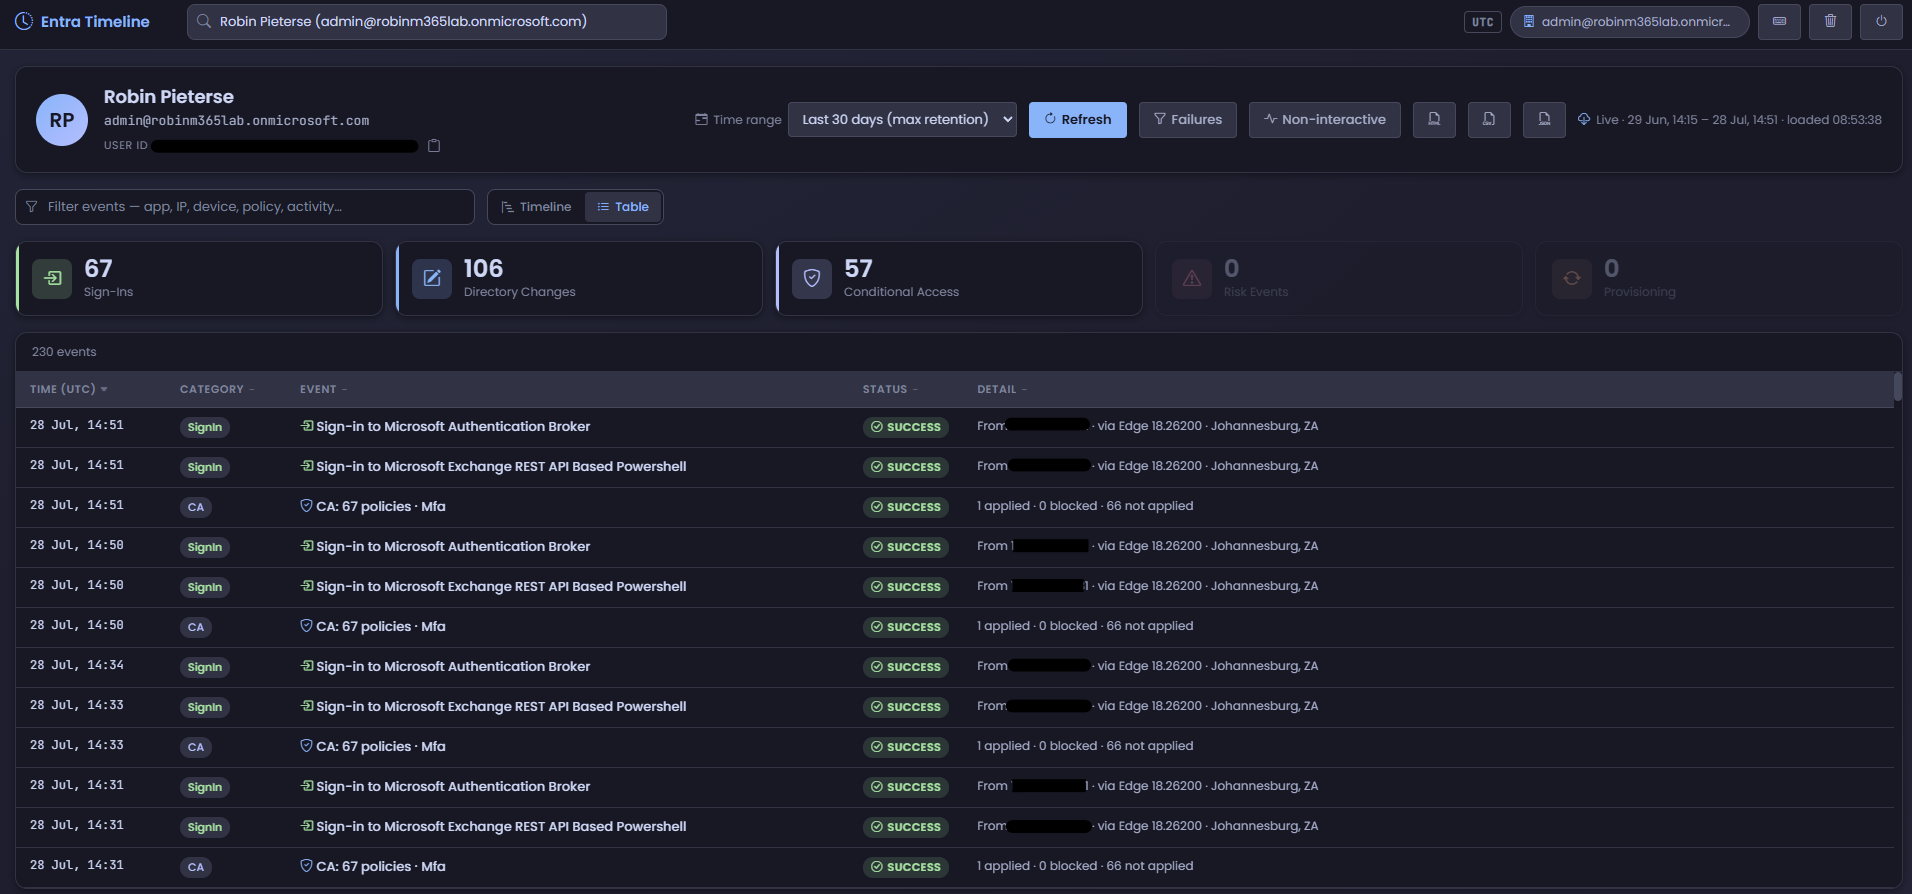
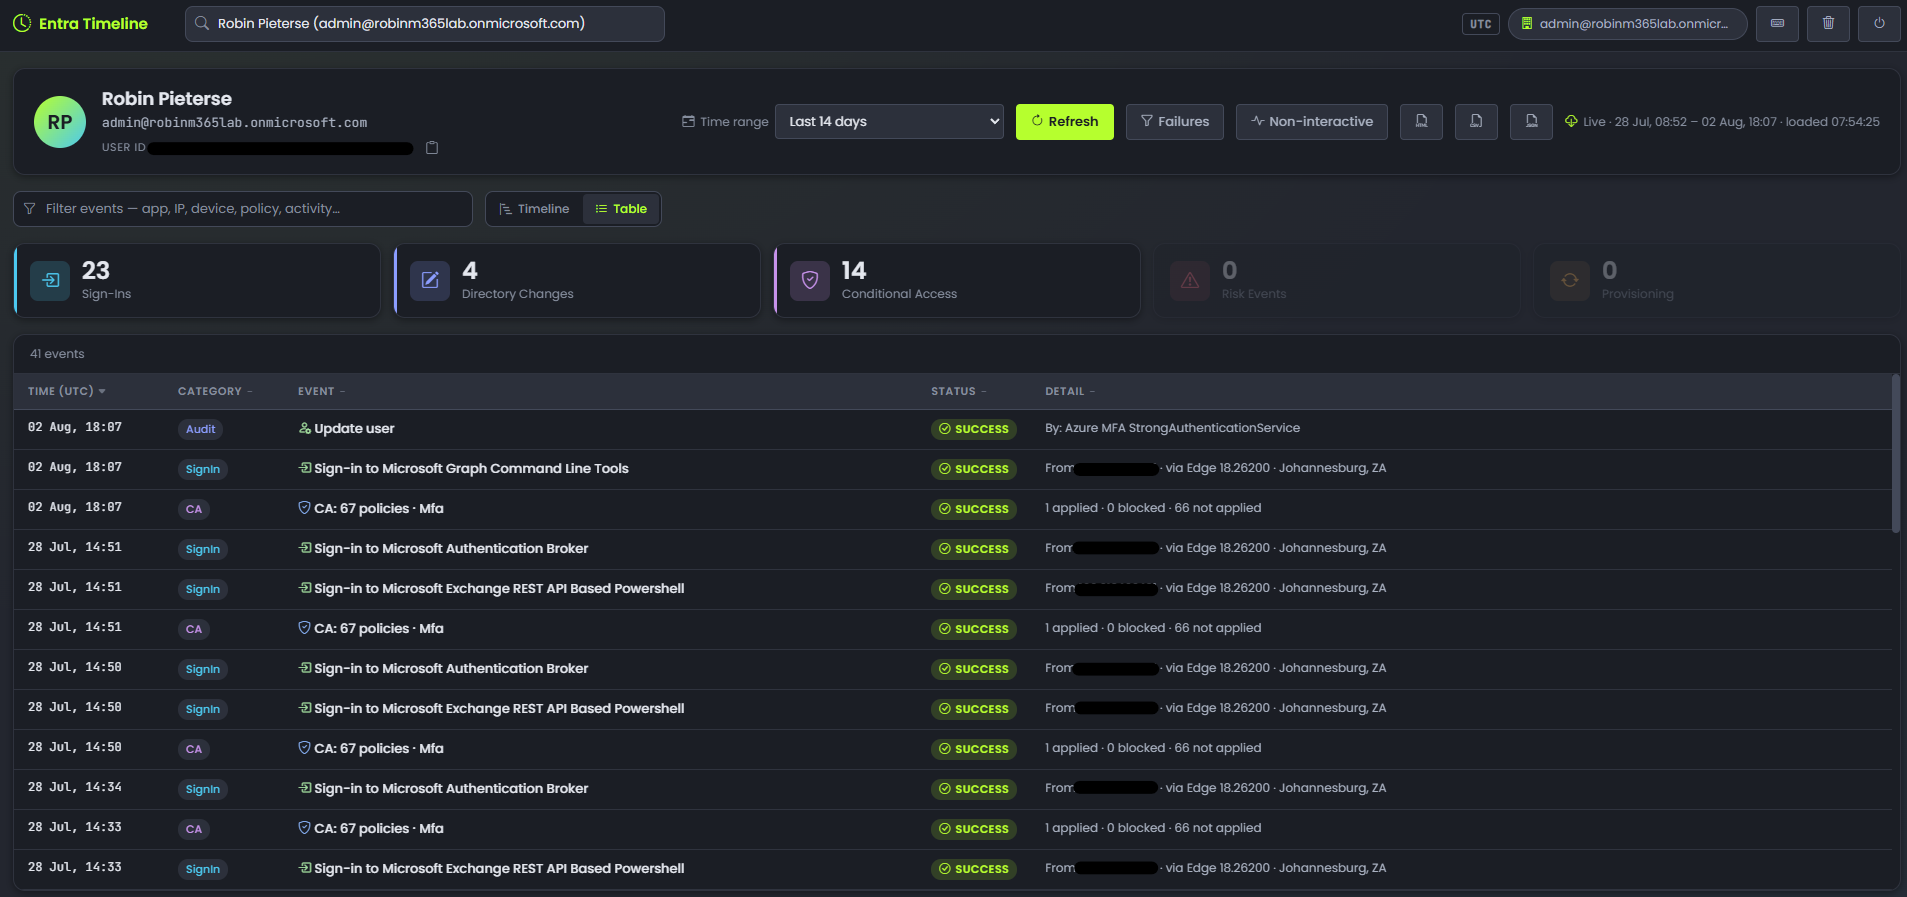
Refresh dark theme palette and status colors
Reworks the CSS design tokens to a charcoal + lime palette, including updated surface/text/accent/status/category colors and new RGB channel variables for consistent translucent effects. Replaces many hardcoded RGBA values with token-based references across timeline, badges, banners, minimap, table selection, and toggle states to improve maintainability and visual consistency. Also updates the timeline and detail panel screenshots in docs to match the new styling.

diff --git a/Web/css/styles.css b/Web/css/styles.css
@@ -1,29 +1,45 @@
 /* ── Design tokens ─────────────────────────────────────────────────────── */
 :root {
-  --bg-base:      #1e1e2e;
-  --bg-surface:   #181825;
-  --bg-card:      #313244;
-  --bg-hover:     #3b3d54;
-  --border:       #313244;
-  --border-soft:  #45475a;
-  --text-primary: #cdd6f4;
-  /* Catppuccin overlay1. The previous overlay0 (#6c7086) measured 3.56:1 against
-     --bg-surface — below the 4.5:1 WCAG AA minimum — and it carries stat labels,
-     detail row labels, the time axis and the empty state. This is 4.72:1. */
-  --text-muted:   #7f849c;
-  --text-sub:     #a6adc8;
-  --accent:       #89b4fa;
-  --success:      #a6e3a1;
-  --error:        #f38ba8;
-  --warning:      #f9e2af;
-  --info:         #89dceb;
+  /* Charcoal surfaces stepped around the #23262f base, lime accent. */
+  --bg-base:      #23262f;
+  --bg-surface:   #1b1e25;
+  --bg-card:      #2c303b;
+  --bg-hover:     #363b48;
+  --border:       #2f333e;
+  --border-soft:  #434959;
+  --text-primary: #e4e7ee;
+  /* Carries stat labels, detail row labels, the time axis and the empty state,
+     so it must clear the 4.5:1 WCAG AA minimum against --bg-surface. This is
+     5.06:1. */
+  --text-muted:   #868e9e;
+  --text-sub:     #a9b1c1;
+  --accent:       #b6ff2e;
+  /* Lime doubles as the success signal — the palette has one "good" colour and
+     spending a third green on it would only blur against the accent. Timeline
+     status is shape-encoded as well, so nothing rests on hue alone. */
+  --success:      #b6ff2e;
+  --error:        #ff6b81;
+  --warning:      #ffc857;
+  --info:         #4cc9f0;
 
-  /* category colors */
-  --cat-SignIn:       #a6e3a1;
-  --cat-Audit:        #89b4fa;
-  --cat-CA:           #b4befe;
-  --cat-Risk:         #f38ba8;
-  --cat-Provisioning: #fab387;
+  /* category colors — hues kept clear of the lime accent so a category never
+     reads as "selected" or "succeeded" */
+  --cat-SignIn:       #4cc9f0;
+  --cat-Audit:        #8b9dff;
+  --cat-CA:           #c792ea;
+  --cat-Risk:         #ff6b81;
+  --cat-Provisioning: #ffb454;
+
+  /* Channel triplets for the translucent fills, rings and washes below. */
+  --accent-rgb:  182,255,46;
+  --success-rgb: 182,255,46;
+  --error-rgb:   255,107,129;
+  --warning-rgb: 255,200,87;
+  --text-rgb:    228,231,238;
+  --muted-rgb:   134,142,158;
+  --card-rgb:    44,48,59;
+  --soft-rgb:    67,73,89;
+  --neutral-ring: #545b6d;
 
   --shadow:       0 2px 8px rgba(0,0,0,.4);
   --shadow-lg:    0 8px 24px rgba(0,0,0,.5);
@@ -53,8 +69,8 @@ html, body {
   /* Two faint wash gradients over the flat base give the surface depth without
      touching any foreground contrast — cards and text still sit on solid --bg-base. */
   background:
-    radial-gradient(120% 140% at 12% -12%, rgba(137,180,250,.05), transparent 60%),
-    radial-gradient(140% 120% at 105% 112%, rgba(180,190,254,.045), transparent 55%),
+    radial-gradient(120% 140% at 12% -12%, rgba(var(--accent-rgb),.05), transparent 60%),
+    radial-gradient(140% 120% at 105% 112%, rgba(76,201,240,.05), transparent 55%),
     var(--bg-base);
   color: var(--text-primary);
   overflow: hidden;
@@ -276,9 +292,9 @@ body { display: flex; flex-direction: column; }
   inset: 0;
   background: linear-gradient(90deg,
     transparent 0%,
-    rgba(205,214,244,.05) 40%,
-    rgba(205,214,244,.13) 50%,
-    rgba(205,214,244,.05) 60%,
+    rgba(var(--text-rgb),.05) 40%,
+    rgba(var(--text-rgb),.13) 50%,
+    rgba(var(--text-rgb),.05) 60%,
     transparent 100%);
   animation: shimmerSweep 1.3s ease-in-out infinite;
   z-index: 5;
@@ -305,7 +321,7 @@ body { display: flex; flex-direction: column; }
   width: 52px; height: 52px;
   flex-shrink: 0;
   border-radius: 50%;
-  background: linear-gradient(135deg, var(--accent), #b4befe);
+  background: linear-gradient(135deg, var(--accent), #4cc9f0);
   color: var(--bg-surface);
   display: flex;
   align-items: center;
@@ -473,7 +489,7 @@ body { display: flex; flex-direction: column; }
 .empty-chip:hover { background: var(--bg-card); color: var(--text-primary); border-color: var(--text-muted); }
 .empty-chip i { font-size: 14px; opacity: .8; }
 .empty-chip.chip-primary { border-color: var(--accent); color: var(--accent); }
-.empty-chip.chip-primary:hover { background: rgba(137,180,250,.12); color: var(--accent); }
+.empty-chip.chip-primary:hover { background: rgba(var(--accent-rgb),.12); color: var(--accent); }
 .chip-tag {
   font-size: 10px;
   text-transform: uppercase;
@@ -562,7 +578,7 @@ body { display: flex; flex-direction: column; }
   position: absolute;
   bottom: 0;
   padding: 0 1px;               /* the gap between bars … */
-  background-color: rgba(137,180,250,.5);
+  background-color: rgba(var(--accent-rgb),.5);
   background-clip: content-box; /* … which the fill must not paint into */
   border: none;
   border-radius: 1px 1px 0 0;
@@ -638,11 +654,11 @@ body { display: flex; flex-direction: column; }
 .minimap-window {
   position: absolute;
   top: -2px; bottom: -2px;
-  background: rgba(137,180,250,.16);
+  background: rgba(var(--accent-rgb),.16);
   border: 1px solid var(--accent);
   border-radius: var(--radius-sm);
   pointer-events: none;
-  box-shadow: 0 0 0 1px rgba(30,30,46,.6);
+  box-shadow: 0 0 0 1px rgba(35,38,47,.6);
 }
 
 /* vis-timeline dark theme overrides */
@@ -709,11 +725,11 @@ body { display: flex; flex-direction: column; }
 }
 
 .vis-group { border-color: var(--border) !important; background: transparent !important; }
-.vis-group:nth-child(odd) { background: rgba(49,50,68,.4) !important; }
+.vis-group:nth-child(odd) { background: rgba(var(--card-rgb),.4) !important; }
 
 .vis-time-axis { background: var(--bg-base) !important; border-color: var(--border) !important; }
 .vis-time-axis .vis-text { color: var(--text-muted) !important; font-size: 11px !important; }
-.vis-time-axis .vis-grid.vis-minor { border-color: rgba(49,50,68,.6) !important; }
+.vis-time-axis .vis-grid.vis-minor { border-color: rgba(var(--card-rgb),.6) !important; }
 .vis-time-axis .vis-grid.vis-major { border-color: var(--border) !important; }
 
 .vis-current-time { background-color: var(--accent) !important; opacity: .5; }
@@ -725,7 +741,7 @@ body { display: flex; flex-direction: column; }
   transition: filter 0.15s ease !important;
 }
 .vis-item:hover    { filter: brightness(1.25) !important; }
-.vis-item.vis-selected .vis-dot { box-shadow: 0 0 0 3px rgba(137,180,250,.5) !important; }
+.vis-item.vis-selected .vis-dot { box-shadow: 0 0 0 3px rgba(var(--accent-rgb),.5) !important; }
 
 /* Point item: no box, just a clean dot + icon */
 .vis-item.vis-point { background: none !important; border: none !important; }
@@ -740,20 +756,20 @@ body { display: flex; flex-direction: column; }
 /* Dot colour AND shape per status. Red/green alone is the worst possible pairing
    for the most common colour vision deficiency, so status also carries a shape:
    hollow circle = success, filled circle = warning, filled square = failure. */
-.vis-item.event-success .vis-dot { border-color: #a6e3a1 !important; background: rgba(166,227,161,.3) !important; }
-.vis-item.event-warning .vis-dot { border-color: #f9e2af !important; background: #f9e2af !important; }
+.vis-item.event-success .vis-dot { border-color: var(--success) !important; background: rgba(var(--success-rgb),.3) !important; }
+.vis-item.event-warning .vis-dot { border-color: var(--warning) !important; background: var(--warning) !important; }
 .vis-item.event-failure .vis-dot {
-  border-color: #f38ba8 !important;
-  background: #f38ba8 !important;
+  border-color: var(--error) !important;
+  background: var(--error) !important;
   border-radius: 1px !important;
 }
-.vis-item.event-info    .vis-dot { border-color: #7f849c !important; background: rgba(127,132,156,.3) !important; }
+.vis-item.event-info    .vis-dot { border-color: var(--text-muted) !important; background: rgba(var(--muted-rgb),.3) !important; }
 
 /* Icon color per status */
-.vis-item.event-success .vis-item-content { color: #a6e3a1 !important; }
-.vis-item.event-failure .vis-item-content { color: #f38ba8 !important; }
-.vis-item.event-warning .vis-item-content { color: #f9e2af !important; }
-.vis-item.event-info    .vis-item-content { color: #6c7086 !important; }
+.vis-item.event-success .vis-item-content { color: var(--success) !important; }
+.vis-item.event-failure .vis-item-content { color: var(--error) !important; }
+.vis-item.event-warning .vis-item-content { color: var(--warning) !important; }
+.vis-item.event-info    .vis-item-content { color: var(--text-muted) !important; }
 
 /* Severity by size. Colour is spent on status, so how much an event should pull
    the eye rides on the one channel still free. vis measures the dot to centre
@@ -766,13 +782,13 @@ body { display: flex; flex-direction: column; }
   width: 16px !important;
   height: 16px !important;
   border-width: 3px !important;
-  box-shadow: 0 0 0 4px rgba(243,139,168,.16) !important;
+  box-shadow: 0 0 0 4px rgba(var(--error-rgb),.16) !important;
 }
 
 /* Selection has to outrank the severity glow, so it is stated after it and at
    equal specificity. */
 .vis-item.vis-point.vis-selected .vis-dot {
-  box-shadow: 0 0 0 3px rgba(137,180,250,.55) !important;
+  box-shadow: 0 0 0 3px rgba(var(--accent-rgb),.55) !important;
 }
 
 /* Sign-in sessions: records sharing a correlationId, drawn as a bar under the
@@ -799,14 +815,14 @@ body { display: flex; flex-direction: column; }
 .vis-item.vis-background { pointer-events: none !important; }
 .vis-item.vis-background.shade-offhours {
   background-color: rgba(0,0,0,.32) !important;
-  border-left: 1px solid rgba(69,71,90,.55) !important;
-  border-right: 1px solid rgba(69,71,90,.55) !important;
+  border-left: 1px solid rgba(var(--soft-rgb),.55) !important;
+  border-right: 1px solid rgba(var(--soft-rgb),.55) !important;
 }
 
 /* Cluster items: count badge */
 .vis-item.vis-cluster {
   background: var(--bg-card) !important;
-  border: 2px solid #585b70 !important;
+  border: 2px solid var(--neutral-ring) !important;
   border-radius: 12px !important;
   color: var(--text-sub) !important;
   font-weight: 600 !important;
@@ -823,24 +839,24 @@ body { display: flex; flex-direction: column; }
    and positions it with an inline transform, so anything that changes the box's
    size after the fact knocks it off-centre. A shadow costs no layout. */
 .vis-item.vis-cluster.cluster-decorated {
-  --cluster-ring: rgba(88,91,112,.35);
+  --cluster-ring: rgba(var(--soft-rgb),.4);
   transition: box-shadow .15s ease, border-color .15s ease;
 }
 .vis-item.vis-cluster.cluster-failure {
-  --cluster-ring: rgba(243,139,168,.22);
+  --cluster-ring: rgba(var(--error-rgb),.22);
   border-color: var(--error) !important;
   color: var(--error) !important;
-  background: rgba(243,139,168,.12) !important;
+  background: rgba(var(--error-rgb),.12) !important;
 }
 .vis-item.vis-cluster.cluster-warning {
-  --cluster-ring: rgba(249,226,175,.2);
+  --cluster-ring: rgba(var(--warning-rgb),.2);
   border-color: var(--warning) !important;
   color: var(--warning) !important;
-  background: rgba(249,226,175,.1) !important;
+  background: rgba(var(--warning-rgb),.1) !important;
 }
 .vis-item.vis-cluster.cluster-success {
-  --cluster-ring: rgba(166,227,161,.18);
-  border-color: #585b70 !important;
+  --cluster-ring: rgba(var(--success-rgb),.18);
+  border-color: var(--neutral-ring) !important;
   color: var(--success) !important;
 }
 
@@ -975,10 +991,10 @@ body.resizing .vis-item { pointer-events: none; }
   text-transform: uppercase;
   letter-spacing: .04em;
 }
-.badge-success { background: rgba(166,227,161,.15); color: var(--success); }
-.badge-failure { background: rgba(243,139,168,.15); color: var(--error); }
-.badge-warning { background: rgba(249,226,175,.15); color: var(--warning); }
-.badge-info    { background: rgba(108,112,134,.15); color: var(--text-sub); }
+.badge-success { background: rgba(var(--success-rgb),.15); color: var(--success); }
+.badge-failure { background: rgba(var(--error-rgb),.15);   color: var(--error); }
+.badge-warning { background: rgba(var(--warning-rgb),.15); color: var(--warning); }
+.badge-info    { background: rgba(var(--muted-rgb),.15);   color: var(--text-sub); }
 
 .ca-policy-list { display: flex; flex-direction: column; gap: 8px; }
 
@@ -1131,8 +1147,8 @@ body.resizing .vis-item { pointer-events: none; }
 .data-banner > i { margin-top: 2px; flex-shrink: 0; }
 .data-banner .banner-text { flex: 1; min-width: 0; }
 .data-banner .banner-close { margin-left: auto; flex-shrink: 0; }
-.banner-warning { background: rgba(249,226,175,.10); border-color: rgba(249,226,175,.35); color: var(--warning); }
-.banner-error   { background: rgba(243,139,168,.10); border-color: rgba(243,139,168,.35); color: var(--error); }
+.banner-warning { background: rgba(var(--warning-rgb),.10); border-color: rgba(var(--warning-rgb),.35); color: var(--warning); }
+.banner-error   { background: rgba(var(--error-rgb),.10);   border-color: rgba(var(--error-rgb),.35);   color: var(--error); }
 
 /* ── Filter bar ────────────────────────────────────────────────────────── */
 .filter-bar {
@@ -1250,7 +1266,7 @@ body.resizing .vis-item { pointer-events: none; }
   transition: background .12s ease;
 }
 .event-table tbody tr:hover { background: var(--bg-card); }
-.event-table tbody tr.row-selected { background: rgba(137,180,250,.12); }
+.event-table tbody tr.row-selected { background: rgba(var(--accent-rgb),.12); }
 .event-table td { padding: 9px 14px; vertical-align: top; }
 .event-table .nowrap { white-space: nowrap; }
 .event-table .cell-title { font-weight: 500; }
@@ -1274,7 +1290,7 @@ body.resizing .vis-item { pointer-events: none; }
 .modal-overlay {
   position: fixed;
   inset: 0;
-  background: rgba(17,17,27,.7);
+  background: rgba(15,17,21,.7);
   backdrop-filter: blur(2px);
   display: flex;
   align-items: center;
@@ -1496,14 +1512,14 @@ kbd {
 
 /* ── Failures-only toggle (active state) ───────────────────────────────── */
 #failures-toggle.active {
-  background: rgba(243, 139, 168, .15);
+  background: rgba(var(--error-rgb), .15);
   color: var(--error);
   border-color: var(--error);
 }
 
 /* ── Non-interactive toggle (active state) ─────────────────────────────── */
 #noninteractive-toggle.active {
-  background: rgba(137, 180, 250, .15);
+  background: rgba(var(--accent-rgb), .15);
   color: var(--accent);
   border-color: var(--accent);
 }
